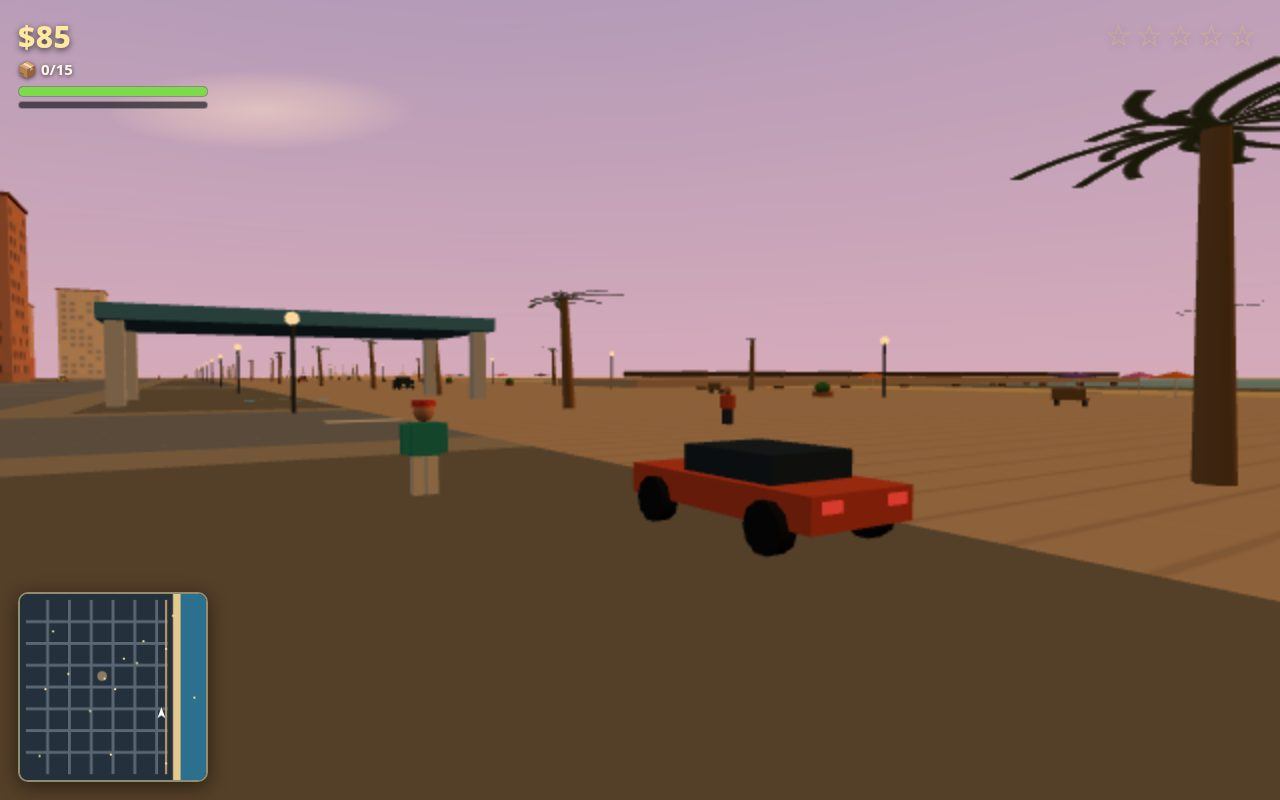
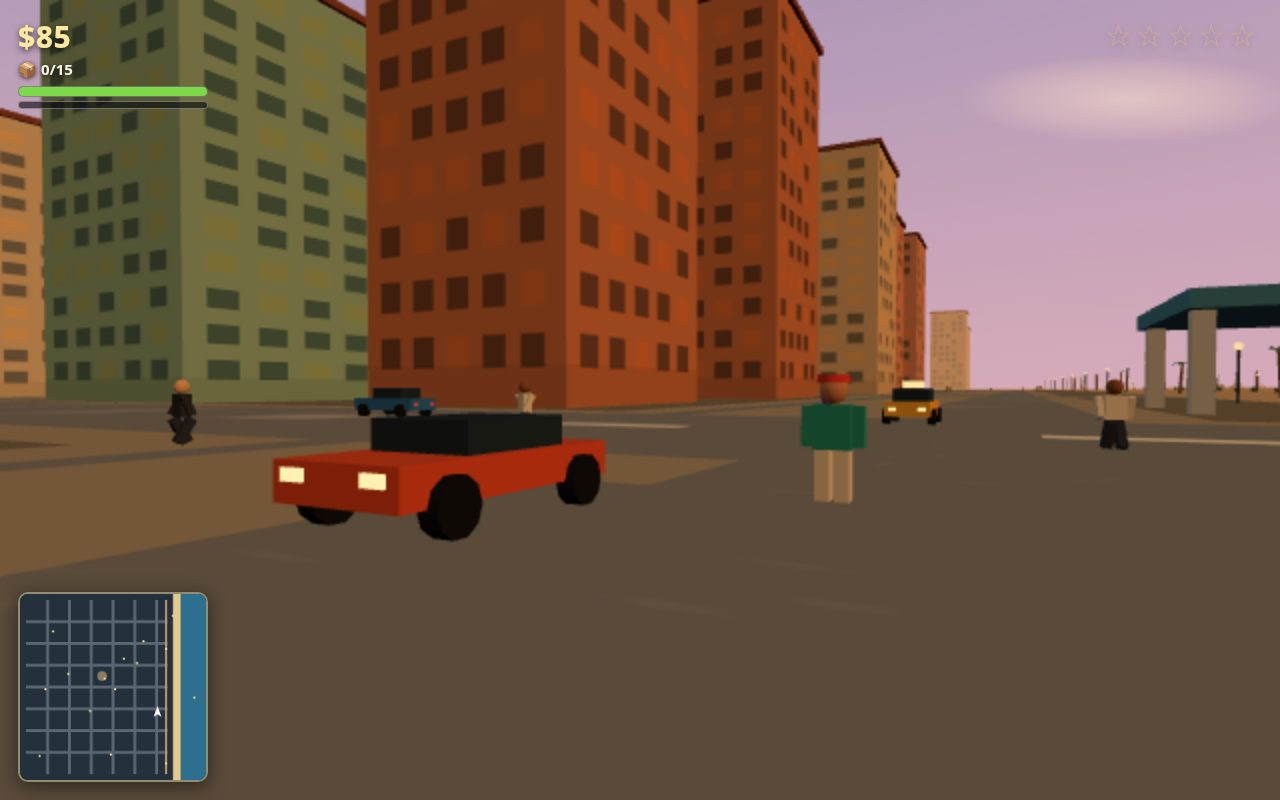
Golden Hour — Costa Vera: richer hero cover staging (round 8b)

diff --git a/game/src/main.js b/game/src/main.js
@@ -668,16 +668,36 @@ window.GH = {
     startPlaying();
     G.camOverride = null;
     if (name === 'cover') {
-      // Hero shot: the Vendaval on the coast road, driver beside it, the city
-      // towers up the shore to the left and the pier and sea to the right.
-      const car = makeVehicle('sports', 0xd94f30, 270, 150, Math.PI, 'parked');
+      // Hero shot: the Vendaval fills the lower centre of the east avenue,
+      // driver standing on the camera side of it. The tower blocks line the
+      // left of the frame, a taxi and a sedan give the street depth, and the
+      // car-wash canopy, promenade lamps and palms close the right side.
+      const car = makeVehicle('sports', 0xd94f30, 241, 140, 0, 'parked');
       G.scene.add(car.group);
       G.vehicles.push(car);
-      teleportPlayer(266.5, 144);
+      const taxi = makeVehicle('taxi', 0xf2b33c, 243.5, 112, 0, 'parked');
+      G.scene.add(taxi.group);
+      G.vehicles.push(taxi);
+      const sedan = makeVehicle('sedan', 0x2e6fb7, 216, 117, -Math.PI / 2, 'parked');
+      G.scene.add(sedan.group);
+      G.vehicles.push(sedan);
+      // A few residents stroll the avenue and the street corner.
+      const strollers = [[232, 128], [250.5, 124], [226, 136], [254, 148], [238, 108]];
+      let placed = 0;
+      for (const p of G.peds) {
+        if (placed >= strollers.length) break;
+        if (p.mode !== 'wander') continue;
+        const [px, pz] = strollers[placed++];
+        p.x = px; p.z = pz;
+        p.targetX = px; p.targetZ = pz;
+        p.anchorX = px; p.anchorZ = pz;
+        p.group.position.set(px, 0, pz);
+      }
+      teleportPlayer(245.2, 136.8);
       G.player.heading = Math.PI;
       G.player.group.rotation.y = G.player.heading;
       G.cameraYaw = G.player.heading;
-      G.camOverride = { x: 262.5, y: 2.4, z: 158.5, lx: 276, ly: 1.5, lz: 137 };
+      G.camOverride = { x: 247.5, y: 1.7, z: 147.5, lx: 237.5, ly: 1.3, lz: 128 };
     } else if (name === 'combat') {
       G.job.nextIndex = 3;
       talkToPilar(G);
